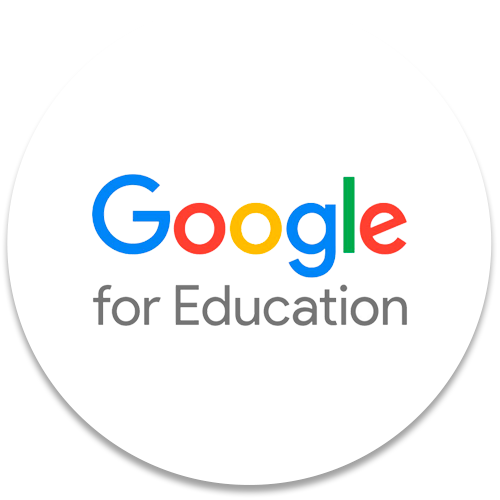
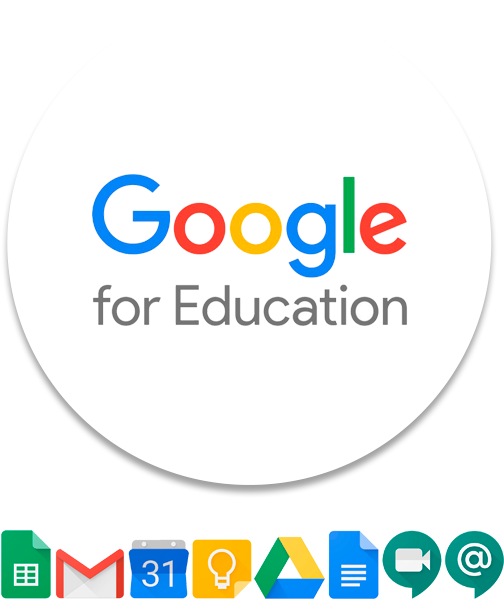
pagina del covid

diff --git a/covid.html b/covid.html
@@ -88,7 +88,6 @@
             <div class="card card-body p-5">
               <h1 class="pb-4" >Propuesta Institucional en tiempos de Covid-19</h1>
               <img class="img-nivel my-2" src="./img/google-education.png" alt="">
-              <h3>Introducción:</h3>
               <p>
                 Los Directivos y Coordinadores de cada área y nivel brindan capacitaciones y asesoramiento a los docentes para que esta nueva modalidad de clase virtual sea profesional, creativa y empática, y tenga llegada a sus alumnos de la mejor manera. 
               </p>
@@ -97,7 +96,7 @@
               </p>
               <p>
                 El personal administrativo continúa con su labor durante el aislamiento, brindando además atención tanto a los requerimientos del personal  docente como de las familias. <br>
-               <b><i>La comunicación administrativa e institucional se está llevando a cabo a través del mail institucional.</i></b> 
+                <b><i>La comunicación administrativa e institucional se está llevando a cabo a través del mail institucional.</i></b> 
               </p>
               <p>
                 Día a día seguimos trabajando para mantener el contacto y continuar afianzando  tanto la transmisión de conocimientos como los vínculos afectivos.

diff --git a/index.html b/index.html
@@ -392,7 +392,7 @@
             <ul class="m-auto">
               <li><a class="btn btn-gart" href="http://mail.google.com/a/colegiociudadjardin.edu.ar">Web Mail</a></li>
               <li><a class="btn btn-gart" href="./login.html">Campus Virtual</a></li>
-              <li><a class="btn btn-gart" href="./comollegar.html">Como llegar</a></li>
+              <li><a class="btn btn-gart" href="./como-llegar.html">Como llegar</a></li>
               <li>
                 <div class="btn-group dropup">
                   <button type="button" class="btn-gart dropdown-toggle" data-toggle="dropdown" aria-haspopup="true" aria-expanded="false">
@@ -405,8 +405,8 @@
                   </div>
                 </div>
               </li>
-              <li><a class="btn btn-gart" href="#">Profesores</a></li>
-              <li><a class="btn btn-gart" href="#">Egresados</a></li>
+              <li><a class="btn btn-gart" href="./profesores.html">Profesores</a></li>
+              <li><a class="btn btn-gart" href="./egresados.html">Egresados</a></li>
             </ul>            
           </div>
           <div class="col-sm-3 offset-sm-1 ml-auto my-auto text-right align-self-center">

diff --git a/css/main.css b/css/main.css
@@ -422,7 +422,9 @@ body{
 }
 
 /* DATA */
-
+#gsuite{
+  height: 60px;  
+}
 #data h1{
   font-family: 'Work Sans', sans-serif;
   letter-spacing: -1.5px;
